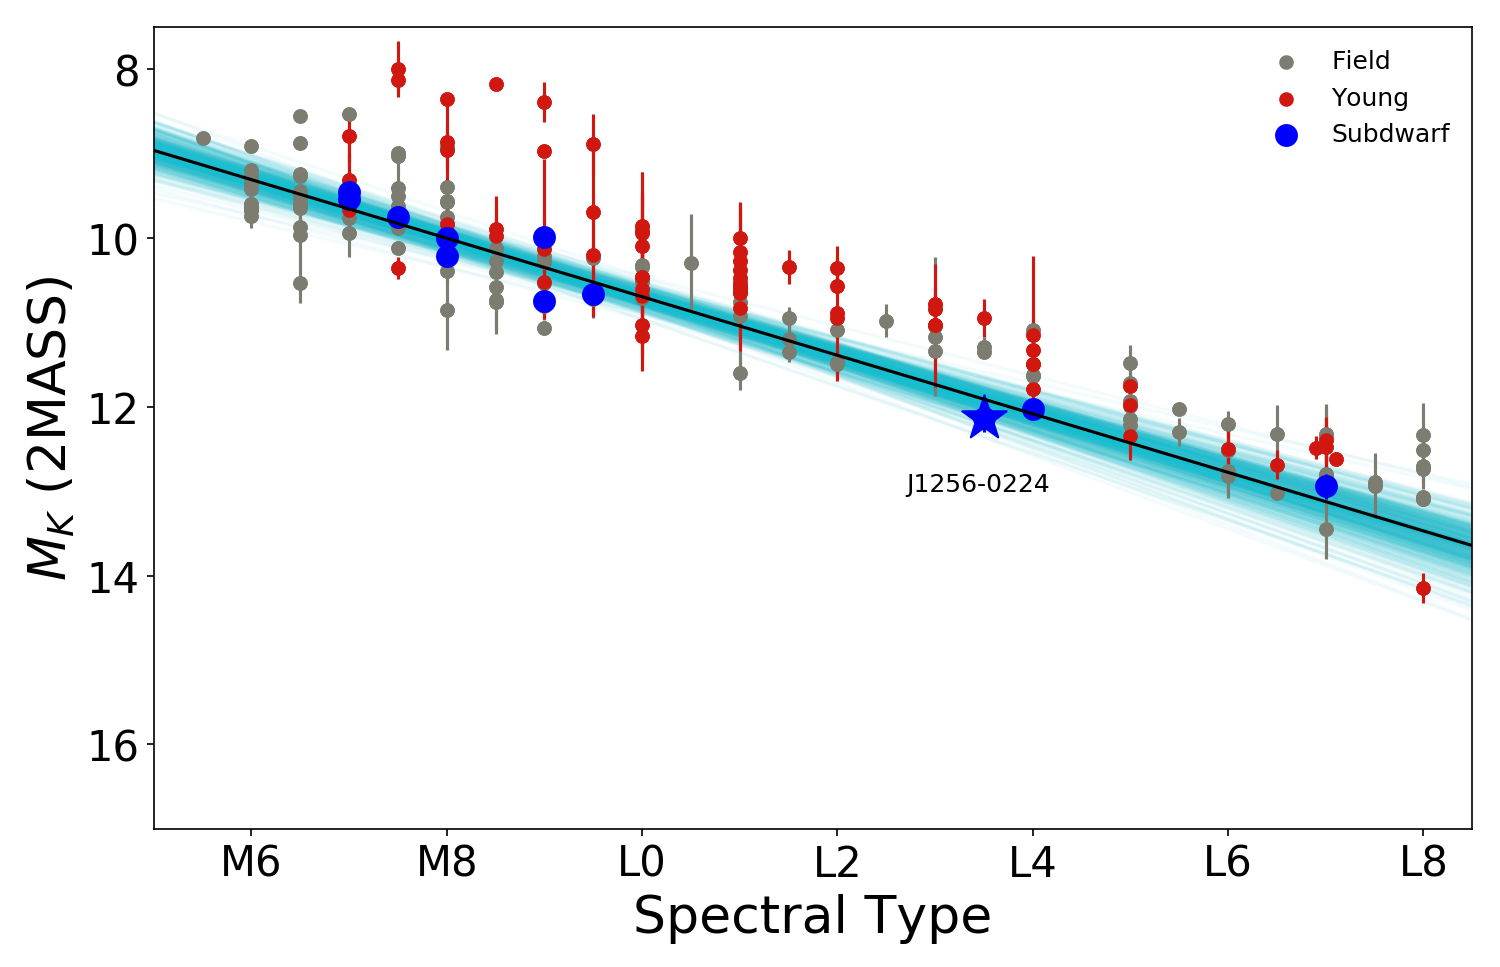
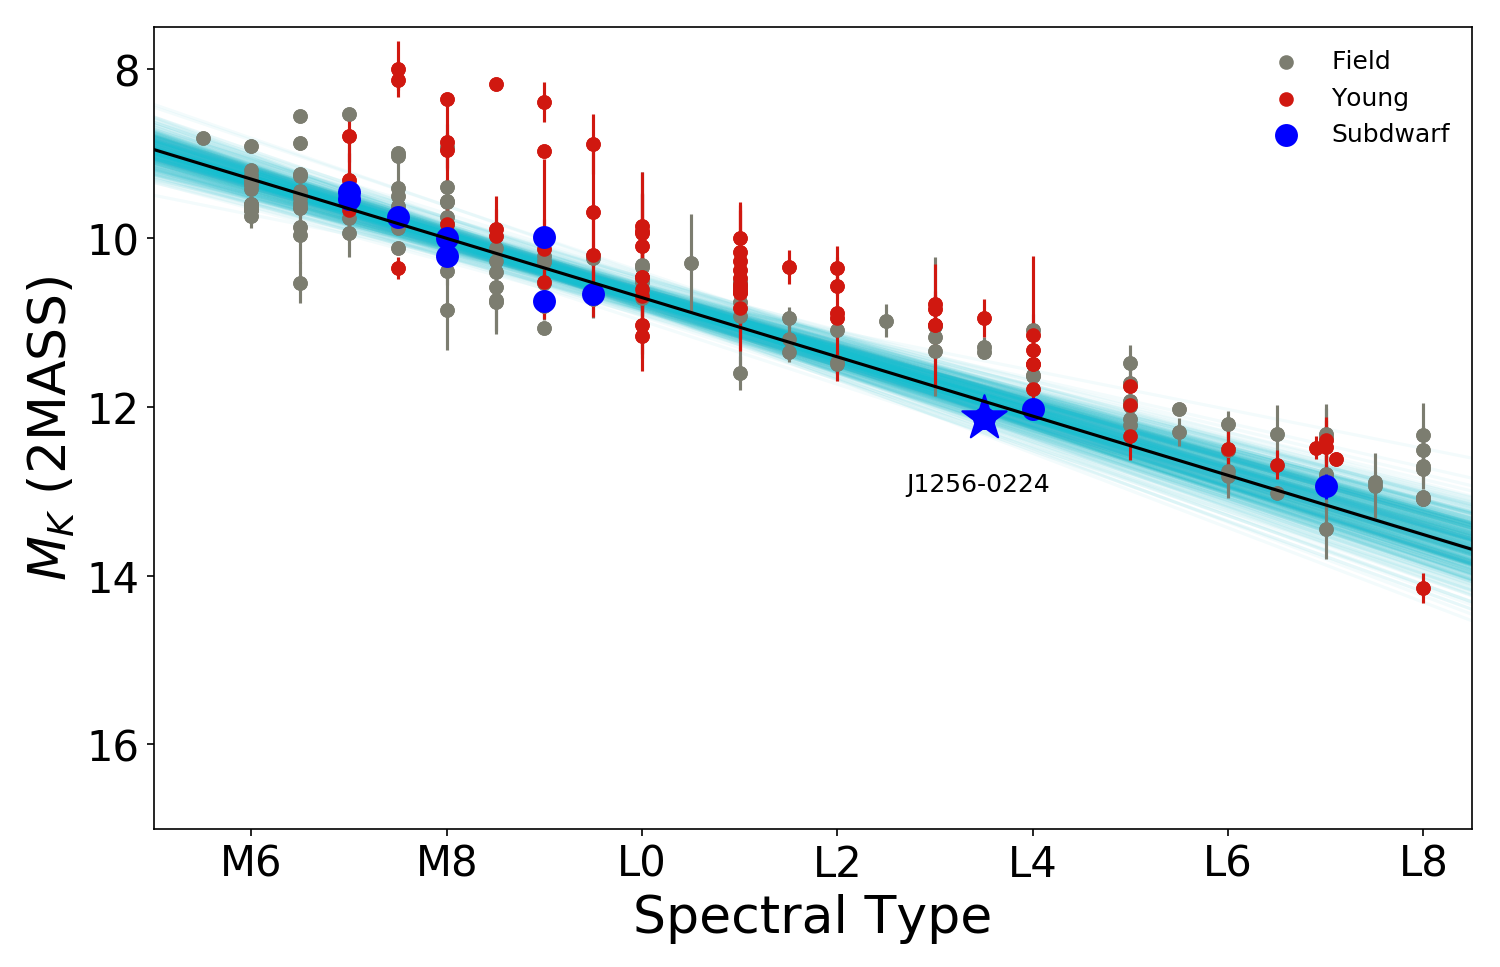
Fixed MKO to 2MASS unc and propagated through

Changed region(s): [[0.2453, 0.2172, 0.9813, 0.6205], [0.092, 0.1241, 0.2453, 0.2172]]

diff --git a/Data/Converting_mag_Systems.py b/Data/Converting_mag_Systems.py
@@ -9,7 +9,7 @@ import numpy as np
 m_H = 16.078
 m_H_unc = 0.016
 m_K = 16.605
-m_K_unc = 0.099
+m_K_unc = 0.018
 dist = 79.67
 dist_err = 4.57
 
